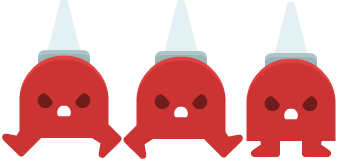
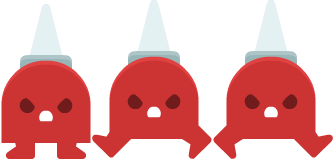
wijzegingen
- vijand

diff --git a/src/main/java/org/example/entities/Vijanden/Vijand.java b/src/main/java/org/example/entities/Vijanden/Vijand.java
@@ -8,8 +8,13 @@ import org.example.entities.Avatar;
 
 public abstract class Vijand extends DynamicSpriteEntity implements Collider {
     public Vijand(String resource, Coordinate2D initialLocation, Size size) {
-        super(resource, initialLocation, size);
+        super(resource, initialLocation, size, 1, 3);
     }
 
     public abstract void interactie(Avatar avatar);
+
+    @Override
+    public void setCurrentFrameIndex(int index) {
+        super.setCurrentFrameIndex(index);
+    }
 }

diff --git a/src/main/java/org/example/SpelScherm.java b/src/main/java/org/example/SpelScherm.java
@@ -39,7 +39,7 @@ public class SpelScherm extends DynamicScene implements TileMapContainer {
         Avatar avatar = new Avatar(new Coordinate2D(0,getHeight() - 100), new Size(45, 45), levensText,  muntjesText, pixelQuest);
         addEntity(avatar);
 
-        Vijand Goomba = new Goomba("Vijanden/Goomba.png", new Coordinate2D(50, 200), new Size(50, 50));
+        Vijand Goomba = new Goomba(new Coordinate2D(50, 200), new Size(50, 50));
         addEntity(Goomba);
     }
 

diff --git a/src/main/java/org/example/entities/Vijanden/Goomba.java b/src/main/java/org/example/entities/Vijanden/Goomba.java
@@ -5,8 +5,8 @@ import com.github.hanyaeger.api.Size;
 import org.example.entities.Avatar;
 
 public class Goomba extends Vijand{
-    public Goomba(String resource, Coordinate2D initialLocation, Size size) {
-        super(resource, initialLocation, size);
+    public Goomba(Coordinate2D initialLocation, Size size) {
+        super("Vijanden/Goomba.png", initialLocation, size);
     }
 
     @Override
